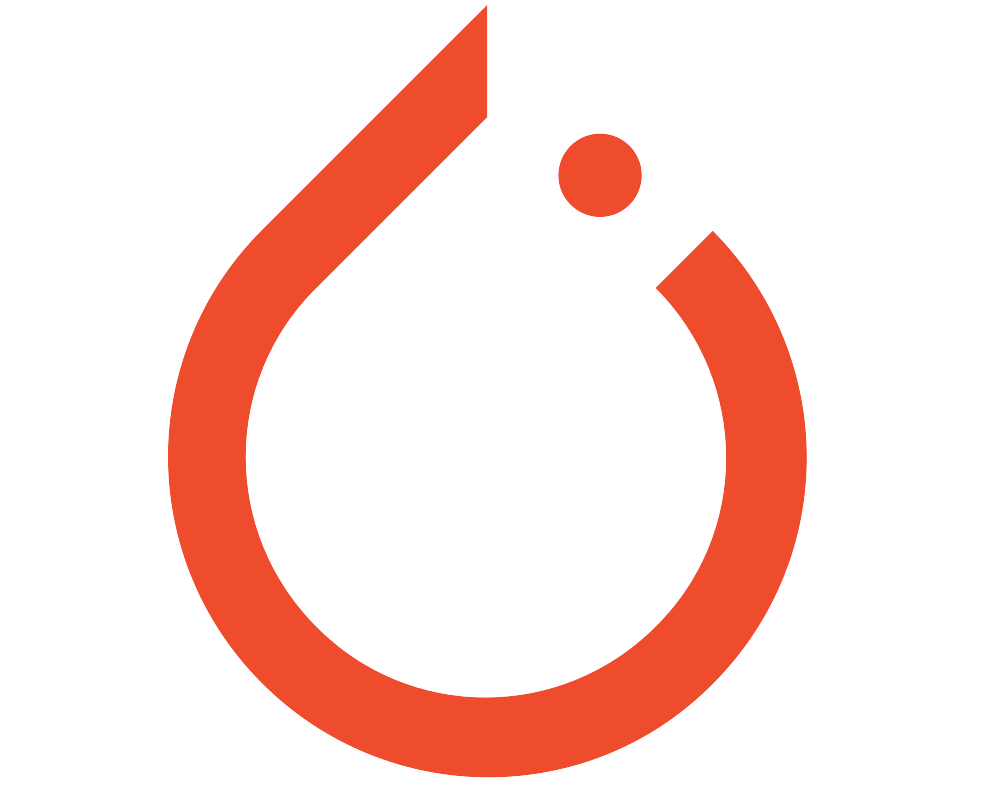
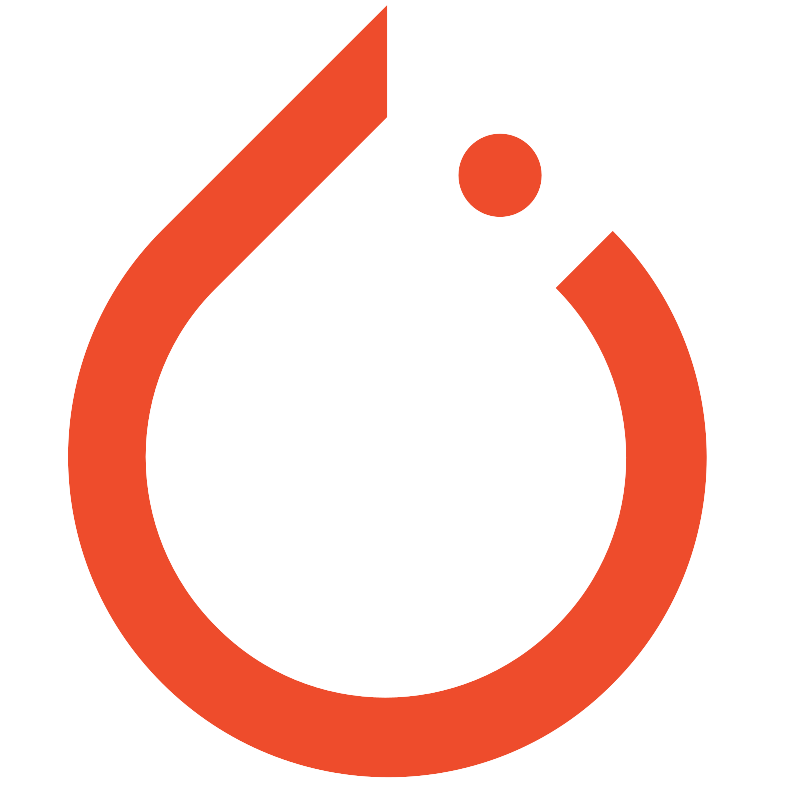
Update

diff --git a/README.md b/README.md
@@ -1,6 +1,6 @@
 # Torch Classification
 
-<img align="right" width="185" height="100" src="resources/pytorch.png"/>
+<img align="right" width="110" height="100" src="resources/pytorch.png"/>
 
 <!-- [![License](https://img.shields.io/badge/License-MIT-blue.svg)](https://opensource.org/licenses/MIT)
 [![PyTorch](https://img.shields.io/badge/PyTorch-1.10.0-orange.svg)](https://pytorch.org/)
